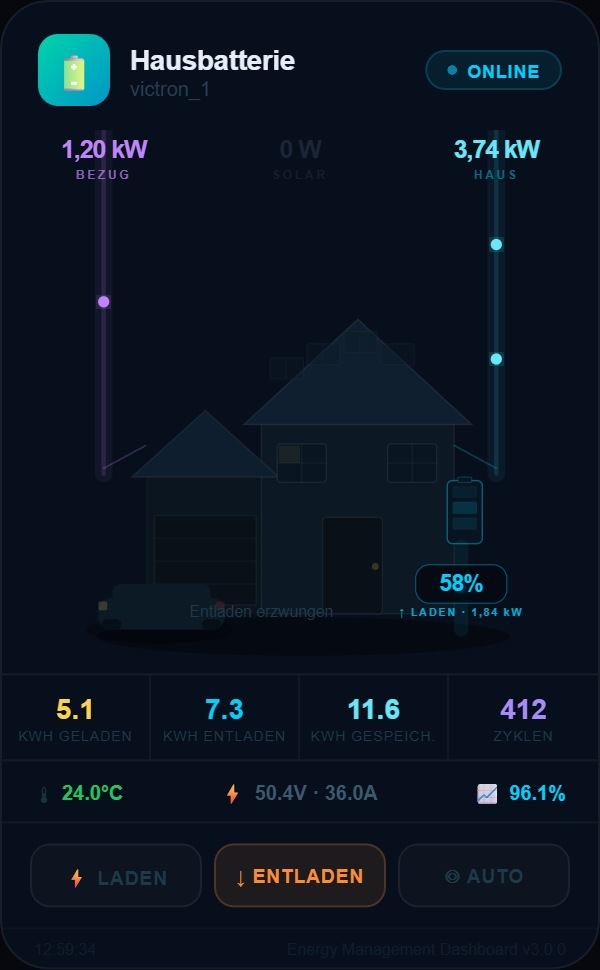
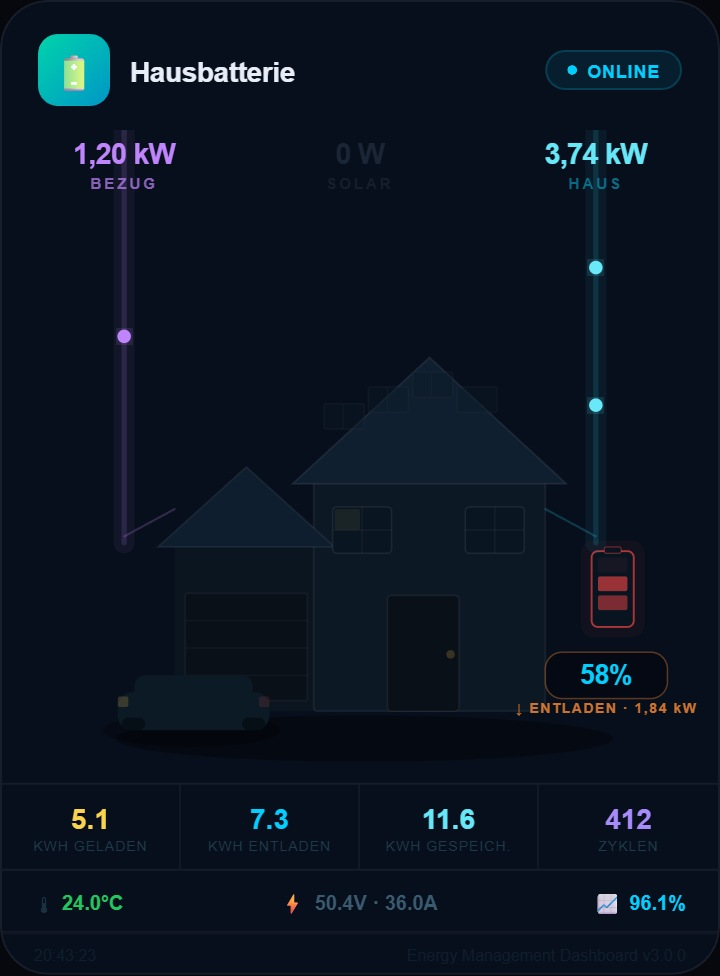
Add files via upload

diff --git a/energy-management-dashboard.js b/energy-management-dashboard.js
@@ -2,14 +2,15 @@
  * Energy Management Dashboard Card
  * Premium Lovelace Dashboard für Batteriespeicher
  * HACS Frontend Plugin
- * Version: 1.3.0
+ * Version: 1.0.0
  *
+ * https://github.com/buggel1009/Energy-Managament-Dashboard
  * Universell: Marstek, Victron, Sungrow, Fronius, Huawei, Fox ESS und mehr
  */
 (function () {
   'use strict';
 
-  const VERSION = '3.0.0';
+  const VERSION = '1.0.0';
   const CARD_TAG = 'energy-management-dashboard';
   const EDITOR_TAG = 'energy-management-dashboard-editor';
 
@@ -528,10 +529,8 @@
         title: 'Heimspeicher',
         entity_prefix: '',
         entities: {},
-        show_controls: true,
         show_health: true,
         show_energy_stats: true,
-        show_ac: true,
       };
     }
 
@@ -540,10 +539,8 @@
       this._config = {
         title: 'Heimspeicher',
         entity_prefix: '',
-        show_controls: true,
         show_health: true,
         show_energy_stats: true,
-        show_ac: true,
         ...config,
         entities: { ...(config.entities || {}) },
       };
@@ -728,7 +725,6 @@
         return o ? new Date(o.last_updated).toLocaleTimeString('de-DE',{hour:'2-digit',minute:'2-digit',second:'2-digit'}) : null;
       })();
 
-      const showCtrl   = false; // Steuerbuttons deaktiviert
       const hasBalance = !!(balStatus || balLast !== null || balAvg !== null);
 
       // Hersteller-Icon-Farbe (basierend auf Titel oder Default)
@@ -1027,7 +1023,7 @@
 
       // Nur komplett neu rendern wenn sich strukturell etwas geändert hat
       // (nicht bei jeder Entitäts-Auswahl — das würde den Fokus zerstören)
-      const structuralKeys = ['title', 'entity_prefix', 'show_controls', 'show_health', 'show_energy_stats', 'show_ac'];
+      const structuralKeys = ['title', 'entity_prefix', 'show_health', 'show_energy_stats'];
       const needsFullRender = !this._config
         || structuralKeys.some(k => this._config[k] !== newCfg[k])
         || Object.keys(newCfg.entities).length !== Object.keys(this._config.entities || {}).length;
@@ -1143,10 +1139,8 @@
       `).join('');
 
       const toggles = [
-        { key: 'show_controls',     label: 'Steuerbuttons',        desc: 'Laden / Entladen / Automatik' },
         { key: 'show_energy_stats', label: 'Energie-Statistiken',  desc: 'Tages- und Gesamtenergiewerte' },
         { key: 'show_health',       label: 'Batterie-Gesundheit',  desc: 'Temperatur, Zellspannung, Balance' },
-        { key: 'show_ac',           label: 'AC-Leistung',          desc: 'Balkendiagramm der Netzleistung' },
       ];
 
       // ── Template ──────────────────────────────────────────────────────────
@@ -1351,7 +1345,7 @@
       name: 'Energy Management Dashboard',
       description: 'Premium Energy Management Dashboard für Batteriespeicher',
       preview: true,
-      documentationURL: 'https://github.com/pauer/powernest-dashboard',
+      documentationURL: 'https://github.com/buggel1009/Energy-Managament-Dashboard',
     });
   }
 

diff --git a/README.md b/README.md
@@ -3,7 +3,7 @@
 **Premium Lovelace Dashboard-Karte für Batteriespeicher in Home Assistant**
 
 [![HACS](https://img.shields.io/badge/HACS-Custom-orange.svg)](https://hacs.xyz)
-[![Version](https://img.shields.io/badge/version-3.0.0-00cfff.svg)](#)
+[![Version](https://img.shields.io/badge/version-1.0.0-00cfff.svg)](https://github.com/buggel1009/Energy-Managament-Dashboard/releases)
 [![HA](https://img.shields.io/badge/Home%20Assistant-2024.4+-blue.svg)](https://www.home-assistant.io)
 
 ---
@@ -11,19 +11,19 @@
 ## Vorschau
 
 <p align="center">
-  <img src="screenshots/charging.jpg" width="320" alt="Solar aktiv · Einspeisung · 72% SOC"/>
+  <img src="screenshots/charging.jpg" width="320" alt="Laden · Solar · E-Auto · 72% SOC"/>
 </p>
-<p align="center"><sub><b>☀ Solar aktiv · Einspeisung ins Netz · Marstek Venus E v3</b></sub></p>
+<p align="center"><sub><b>⚡ Laden (Batterie pulsiert grün) · ☀ Solar · 🚗 E-Auto lädt · Einspeisung</b></sub></p>
 
 <p align="center">
   <img src="screenshots/discharging.jpg" width="320" alt="Entladen · Netzbezug · 58% SOC"/>
   &nbsp;&nbsp;
-  <img src="screenshots/alarm.jpg" width="320" alt="Niedrig · 18% SOC · Übertemperatur"/>
+  <img src="screenshots/alarm.jpg" width="320" alt="Niedrig · 18% SOC · Übertemperatur · Alarm"/>
 </p>
 <p align="center">
-  <sub><b>↓ Entladen · Victron MultiPlus</b></sub>
-  &nbsp;&nbsp;&nbsp;&nbsp;&nbsp;&nbsp;&nbsp;&nbsp;&nbsp;&nbsp;&nbsp;&nbsp;&nbsp;&nbsp;&nbsp;&nbsp;&nbsp;&nbsp;&nbsp;&nbsp;&nbsp;&nbsp;&nbsp;&nbsp;&nbsp;&nbsp;&nbsp;&nbsp;&nbsp;&nbsp;&nbsp;&nbsp;
-  <sub><b>⚠ Niedrig · Sungrow SBR192</b></sub>
+  <sub><b>🔋 Entladen (pulsiert rot) · Netzbezug</b></sub>
+  &nbsp;&nbsp;&nbsp;&nbsp;&nbsp;&nbsp;&nbsp;&nbsp;&nbsp;&nbsp;&nbsp;&nbsp;&nbsp;&nbsp;&nbsp;&nbsp;&nbsp;&nbsp;&nbsp;&nbsp;&nbsp;&nbsp;&nbsp;&nbsp;
+  <sub><b>⚠ Alarm · niedriger SOC · Übertemperatur</b></sub>
 </p>
 
 ---
@@ -45,7 +45,7 @@
 ## Installation via HACS
 
 1. **HACS** → *Frontend* → ⋮ → *Benutzerdefinierte Repositories*
-2. URL eintragen: `https://github.com/pauer/energy-management-dashboard`
+2. URL eintragen: `https://github.com/buggel1009/Energy-Managament-Dashboard`
 3. Kategorie: **Lovelace**
 4. Installieren → Home Assistant neu laden
 
@@ -68,12 +68,21 @@ resources:
 type: custom:energy-management-dashboard
 title: Heimspeicher
 entity_prefix: marstek_venus_1   # → generiert Kopiervorlage im Editor
-show_controls: true
 show_health: true
 show_energy_stats: true
 entities:
+  # ── Pflicht ──
   battery_soc: sensor.marstek_venus_1_battery_soc
   battery_power: sensor.marstek_venus_1_battery_power
+  # ── Energiefluss (Haus-Visualisierung) ──
+  home_consumption: sensor.haus_gesamtverbrauch        # Haus-Strang (cyan)
+  grid_power: sensor.netz_leistung                     # + = Bezug, − = Einspeisung
+  mppt1_power: sensor.marstek_venus_1_mppt1_power       # Solar-Strang (gelb)
+  # ── E-Auto / Wallbox (optional) ──
+  ev_charge_power: sensor.wallbox_ladeleistung         # W — lädt → grünes Kabel
+  ev_soc: sensor.auto_akku_soc                         # %
+  ev_connected: binary_sensor.wallbox_verbunden        # on/off
+  # ── Detail-Werte ──
   internal_temperature: sensor.marstek_venus_1_internal_temperature
   battery_voltage: sensor.marstek_venus_1_battery_voltage
   battery_current: sensor.marstek_venus_1_battery_current
@@ -82,20 +91,11 @@ entities:
   stored_energy: sensor.marstek_venus_1_stored_energy
   battery_cycle_count_calc: sensor.marstek_venus_1_battery_cycle_count_calc
   round_trip_efficiency_total: sensor.marstek_venus_1_round_trip_efficiency_total
-  total_charging_energy: sensor.marstek_venus_1_total_charging_energy
-  total_discharging_energy: sensor.marstek_venus_1_total_discharging_energy
   max_cell_voltage: sensor.marstek_venus_1_max_cell_voltage
   min_cell_voltage: sensor.marstek_venus_1_min_cell_voltage
-  balance_status: sensor.marstek_venus_1_balance_status
-  balance_last_measurement: sensor.marstek_venus_1_balance_last_measurement
-  balance_trend: sensor.marstek_venus_1_balance_trend
   fault_status: sensor.marstek_venus_1_fault_status
   alarm_status: sensor.marstek_venus_1_alarm_status
   wifi_status: binary_sensor.marstek_venus_1_wifi_status
-  force_mode: select.marstek_venus_1_force_mode
-  ac_power: sensor.marstek_venus_1_ac_power
-  mppt1_power: sensor.marstek_venus_1_mppt1_power
-  mppt2_power: sensor.marstek_venus_1_mppt2_power
 ```
 
 > **Tipp:** Im visuellen Editor einfach den `entity_prefix` (z.B. `marstek_venus_1`) eingeben — die Karte generiert dann automatisch eine vollständige Kopiervorlage mit allen Entity-IDs.
@@ -106,16 +106,17 @@ entities:
 
 | Feature | Beschreibung |
 |---------|-------------|
-| 🔢 **Großer SOC** | Dominante Zahl mit dynamischer Farbe (blau → grün → gelb → rot) |
-| ⚡ **Live Power** | Lade-/Entladeleistung mit Richtungsanzeige |
-| 🌊 **Energiefluss** | Animiertes Solar → Batterie → Haus → Netz mit Partikel-Animation |
+| 🏠 **Haus-Visualisierung** | Realistisches Haus mit farbigen Energie-Strängen (Netz · Solar · Haus) |
+| 🔋 **Pulsierende Batterie** | Speicher leuchtet **grün beim Laden**, **rot beim Entladen** — Füllbalken-Welle |
+| 🌊 **Animierter Fluss** | Partikel auf jedem Strang, Geschwindigkeit proportional zur Leistung |
+| 🚗 **E-Auto / Wallbox** | Ladekabel + Badge mit Leistung & Akku-SOC, animiert beim Laden |
+| ⚡ **Netzrichtung** | Bezug (lila) ↔ Einspeisung (grün) automatisch erkannt |
 | 📊 **Tagesstatistik** | kWh geladen, entladen, gespeichert, Zyklen |
-| ⚖️ **Zell-Balance** | Status, Delta mV, Trend |
-| 🌡️ **Temperaturen** | Innen, MOS1/2, Zellen min/max |
-| 🎮 **Steuerung** | Laden / Entladen / Auto (wenn `force_mode` konfiguriert) |
-| 🔔 **Alarm** | Blinkender Alarm-Chip, rotierender Warnring bei Fehlern |
+| 🌡️ **Detail-Werte** | Temperatur, Spannung/Strom, Effizienz, Zell-Delta |
+| 👆 **Klickbar** | Jeder Wert öffnet den HA-Verlauf (More-Info) der Entität |
+| 🔔 **Alarm** | Blinkender Alarm-Chip bei Fehlern |
 | 🏭 **Multi-Hersteller** | Icon-Farbe passt sich automatisch dem Gerät an |
-| 🌑 **Dark Mode** | Natives Dark-Theme optimiert für HA-Dashboards |
+| 🌑 **Dark Mode** | Natives Dark-Theme, reine Lese-/Monitoring-Ansicht |
 
 ---
 
@@ -125,9 +126,20 @@ entities:
 |--------|-----|----------|--------------|
 | `title` | string | `Heimspeicher` | Anzeigename der Karte |
 | `entity_prefix` | string | — | Geräteprefix für Kopiervorlage im Editor |
-| `show_controls` | bool | `true` | Steuerbuttons (Laden/Entladen/Auto) anzeigen |
 | `show_health` | bool | `true` | Detaildaten (Temp, Spannung, Effizienz) anzeigen |
 | `show_energy_stats` | bool | `true` | Tagesstatistik-Reihe anzeigen |
+
+---
+
+## Changelog
+
+Alle Änderungen sind in der [CHANGELOG.md](CHANGELOG.md) dokumentiert.
+Bei einem Update zeigt HACS automatisch die Versionshinweise des jeweiligen
+GitHub-Releases an.
+
+> **Für Maintainer:** Damit die Änderungen im HACS-Update-Dialog erscheinen,
+> beim Taggen eines Releases (`1.0.0`, `1.1.0`, …) den passenden Abschnitt aus
+> der `CHANGELOG.md` in die **GitHub-Release-Beschreibung** kopieren.
 
 ---
 
@@ -137,4 +149,4 @@ MIT License — frei verwendbar, auch für kommerzielle Projekte.
 
 ---
 
-*Energy Management Dashboard v3.0.0 · Premium Design für Home Assistant*
+*Energy Management Dashboard v1.0.0 · Premium Design für Home Assistant*

diff --git a/CHANGELOG.md b/CHANGELOG.md
@@ -1,0 +1,31 @@
+# Changelog
+
+Alle nennenswerten Änderungen an diesem Projekt werden hier dokumentiert.
+
+Das Format orientiert sich an [Keep a Changelog](https://keepachangelog.com/de/1.0.0/),
+und das Projekt folgt [Semantic Versioning](https://semver.org/lang/de/).
+
+## [1.0.0] – 2026-06-04
+
+### 🎉 Erste Veröffentlichung
+
+Premium Energy-Management-Dashboard für Home Assistant — universell für alle
+Batteriespeicher (Marstek, Victron, Sungrow, Fronius, Huawei, Fox ESS u. v. m.).
+
+### Hinzugefügt
+- 🏠 **Haus-Visualisierung** mit farbigen Energie-Strängen (Netz · Solar · Haus)
+- 🔋 **Pulsierende Batterie** – leuchtet **grün beim Laden**, **rot beim Entladen**
+  (animierte Füllbalken-Welle nach oben/unten)
+- 🌊 **Animierter Energiefluss** – Partikel je Strang, Geschwindigkeit proportional zur Leistung
+- 🚗 **E-Auto / Wallbox** – Ladekabel + Badge mit Leistung & Akku-SOC, animiert beim Laden
+- ⚡ **Automatische Netzrichtung** – Bezug (lila) ↔ Einspeisung (grün)
+- 📊 **Tagesstatistik** – kWh geladen / entladen / gespeichert / Zyklen
+- 🌡️ **Detail-Werte** – Temperatur, Spannung/Strom, Effizienz, Zell-Delta
+- 👆 **Klickbare Werte** – jeder Wert öffnet den HA-Verlauf (More-Info) der Entität
+- 🔔 **Alarm-Anzeige** – blinkender Chip bei Fehlern
+- 🏭 **Multi-Hersteller** – Icon-Farbe passt sich automatisch dem Gerät an
+- ⚙️ **Visueller Editor** mit Kopiervorlage (Entity-IDs aus Geräteprefix generieren)
+
+### Hinweise
+- Reine Lese-/Monitoring-Ansicht (keine Steuerbuttons)
+- Mindestens `battery_soc` + `battery_power` erforderlich